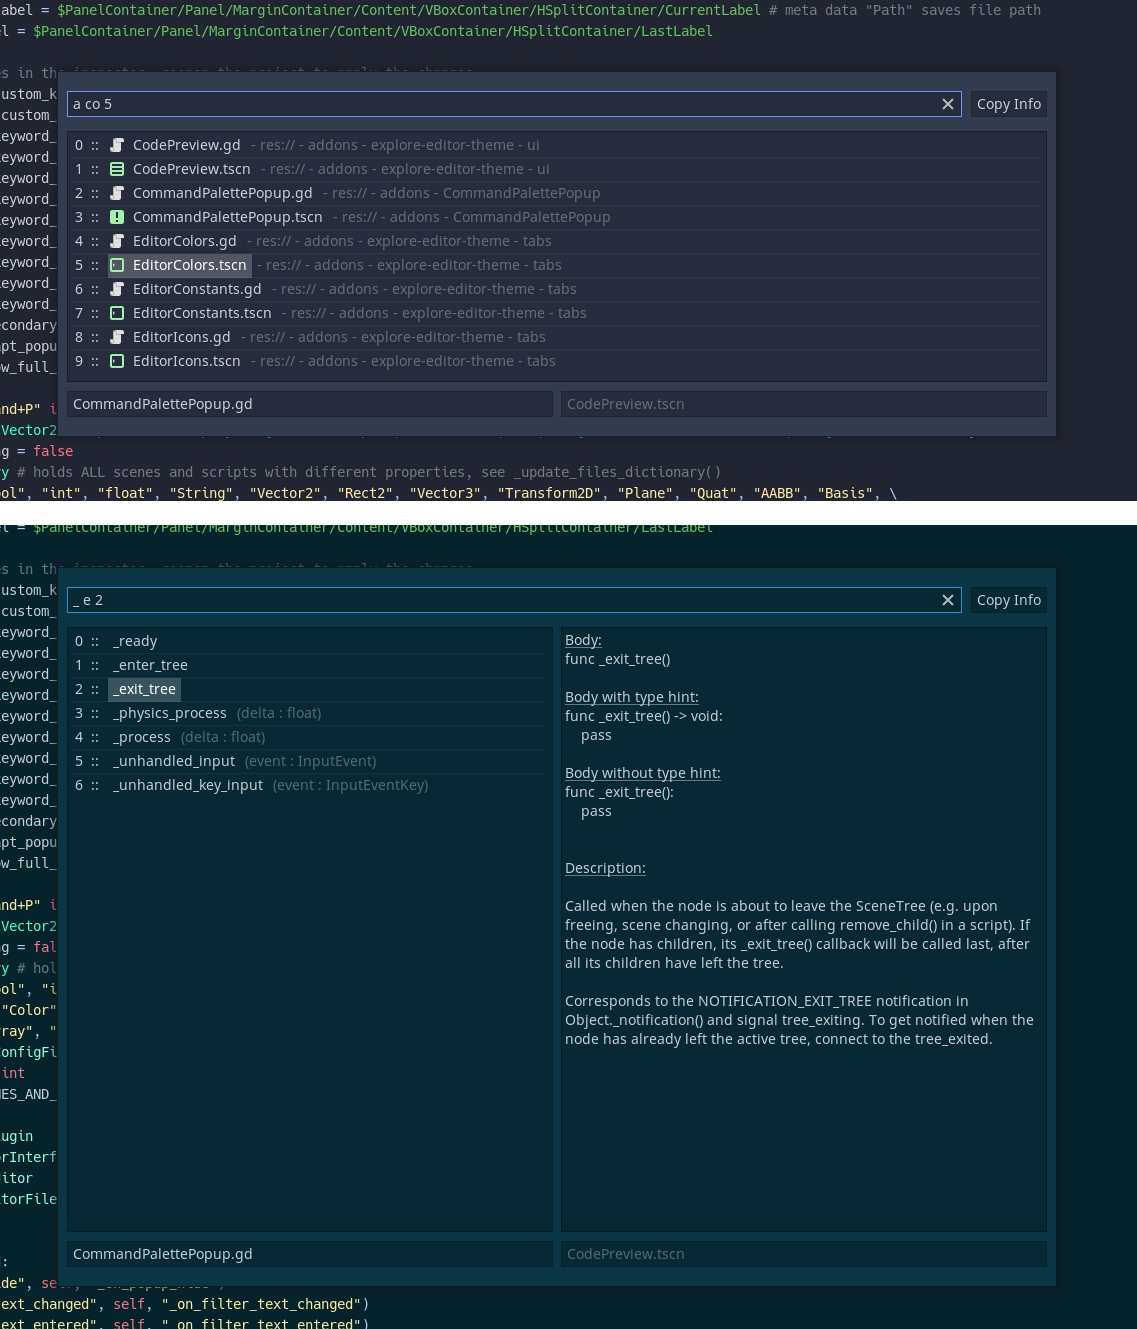
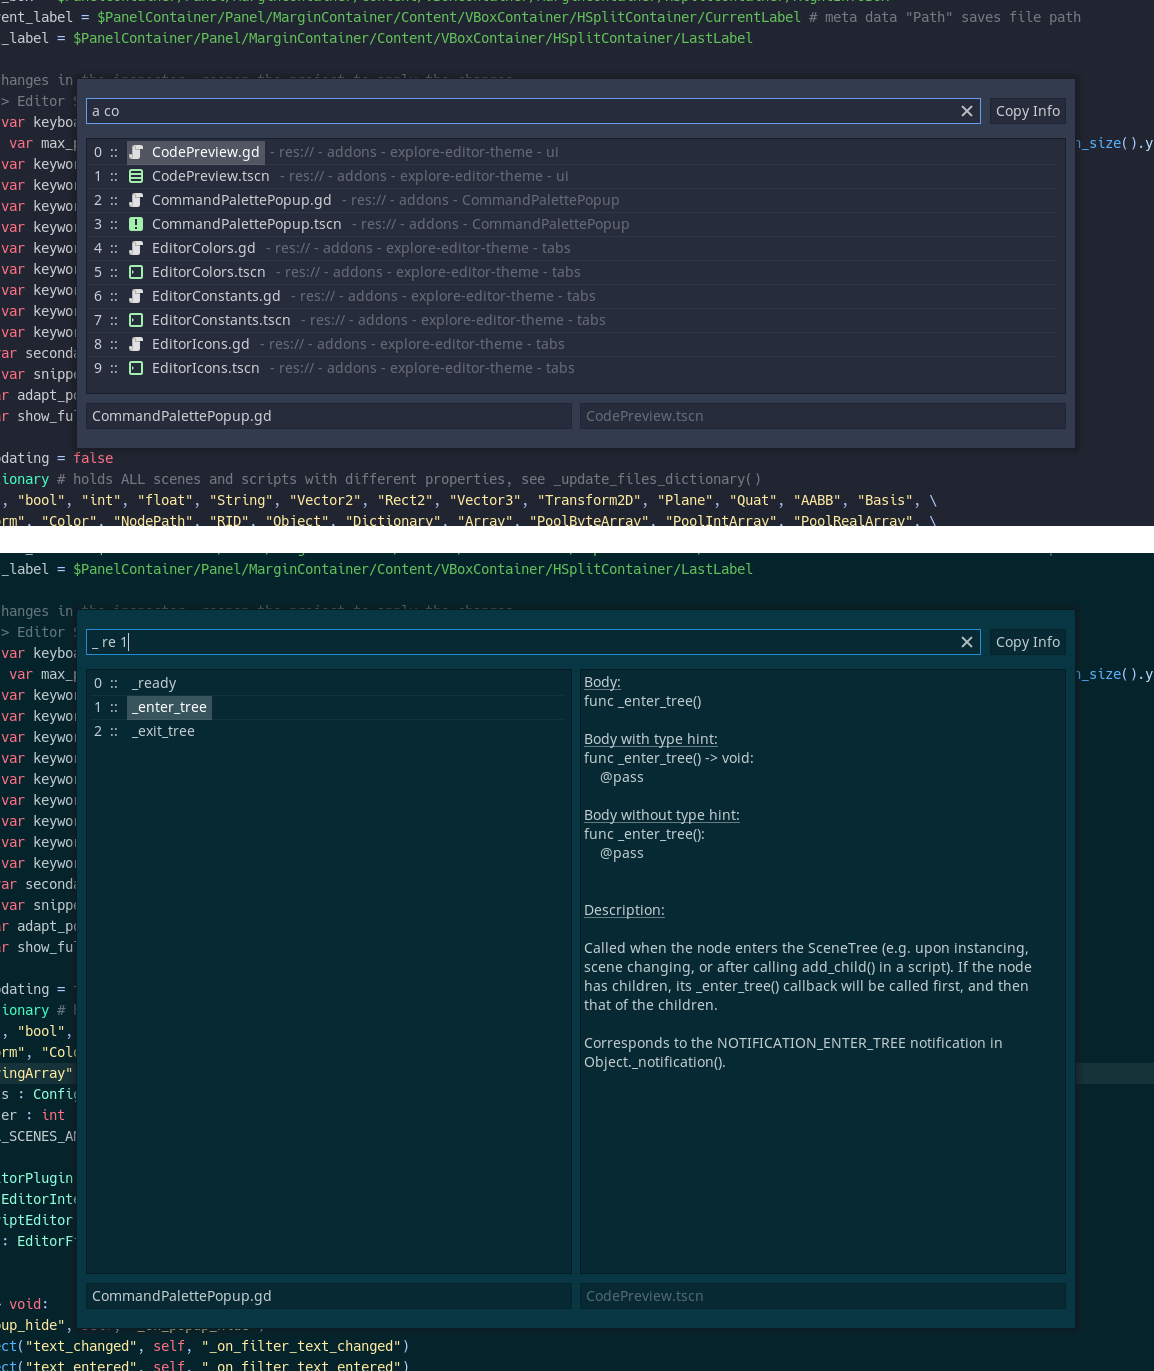
added cursor jump point to code snippets

diff --git a/README.md b/README.md
@@ -16,8 +16,8 @@ This plugin for the Godot game engine 3.2.X adds a global keyboard shortcut to a
 - Starting the search_string with \"as \" will show ALL SCENES.
 - Starting the search_string with \"sig \" will list all signals of the current scene root. Activating a signal will insert the signal connection at the cursor position with the cursor position moving to the signal target. The signal method will be copied to the clipboard.
 - Starting the search_string with \": \" followed by an integer will jump to that line in the script editor.
-- Starting the search_string with \"_ \" will show the code snippets. Activating a snippet will insert it at the cursor position. Custom snippets can be created by editing CodeSnippets.cfg. The sections are the names shown in the item_list. "body" is the only section key, which has to be defined. It can be whatever you want to eventually paste. By default a few virtual methods are implemented.
-- Ending the search_string with " e" when using the code snippets, will insert the snippet at the end of the file (instead of at the cursor position).
+- Starting the search_string with \":m \" will list the methods of the current script and allow to jump to a selected method.
+- Starting the search_string with \"_ \" will show the code snippets. Activating a snippet will insert it at the cursor position. Custom snippets can be created by editing CodeSnippets.cfg. The sections are the names shown in the item_list. "body" is the only section key, which has to be defined. It can be whatever you want to eventually paste. Adding a "@" into the snippet will make the cursor jump to that position. By default a few virtual methods are implemented.
 
 - Opening a script also opens the scene, which the script is attached to. It only works if the script is attached to the scene root. This gives you autocompletion on the Node(Paths) and their methods.
 
